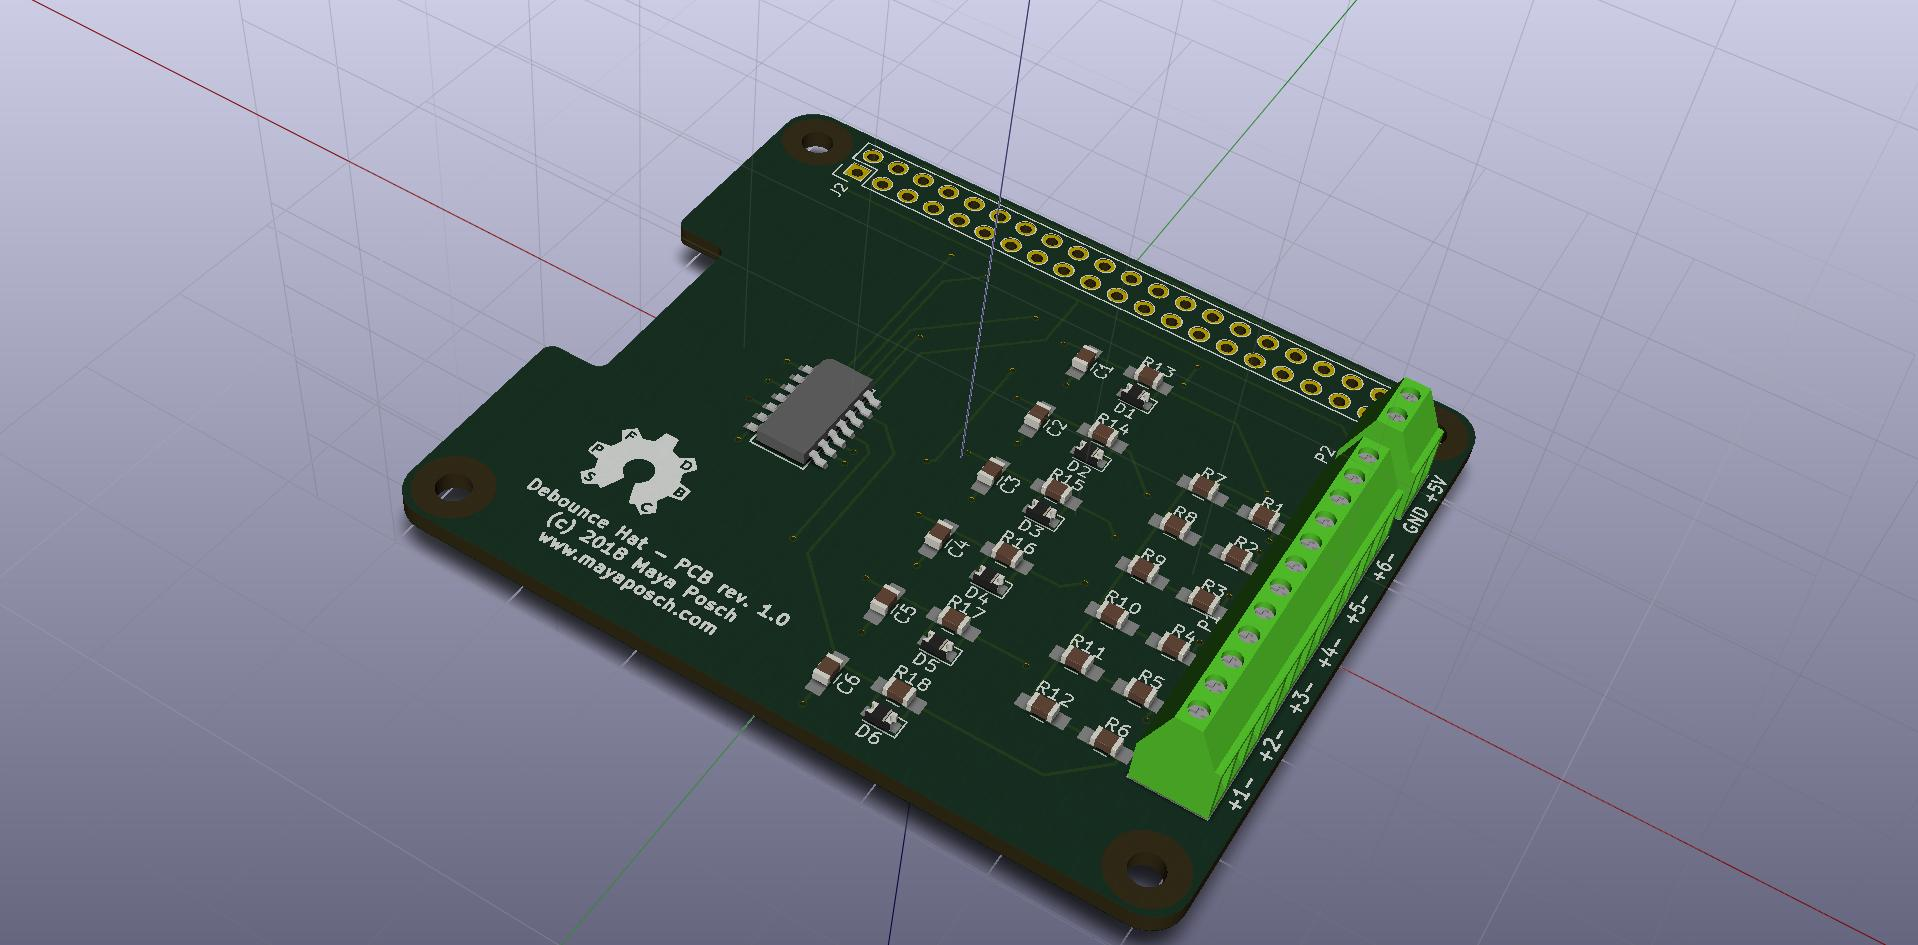
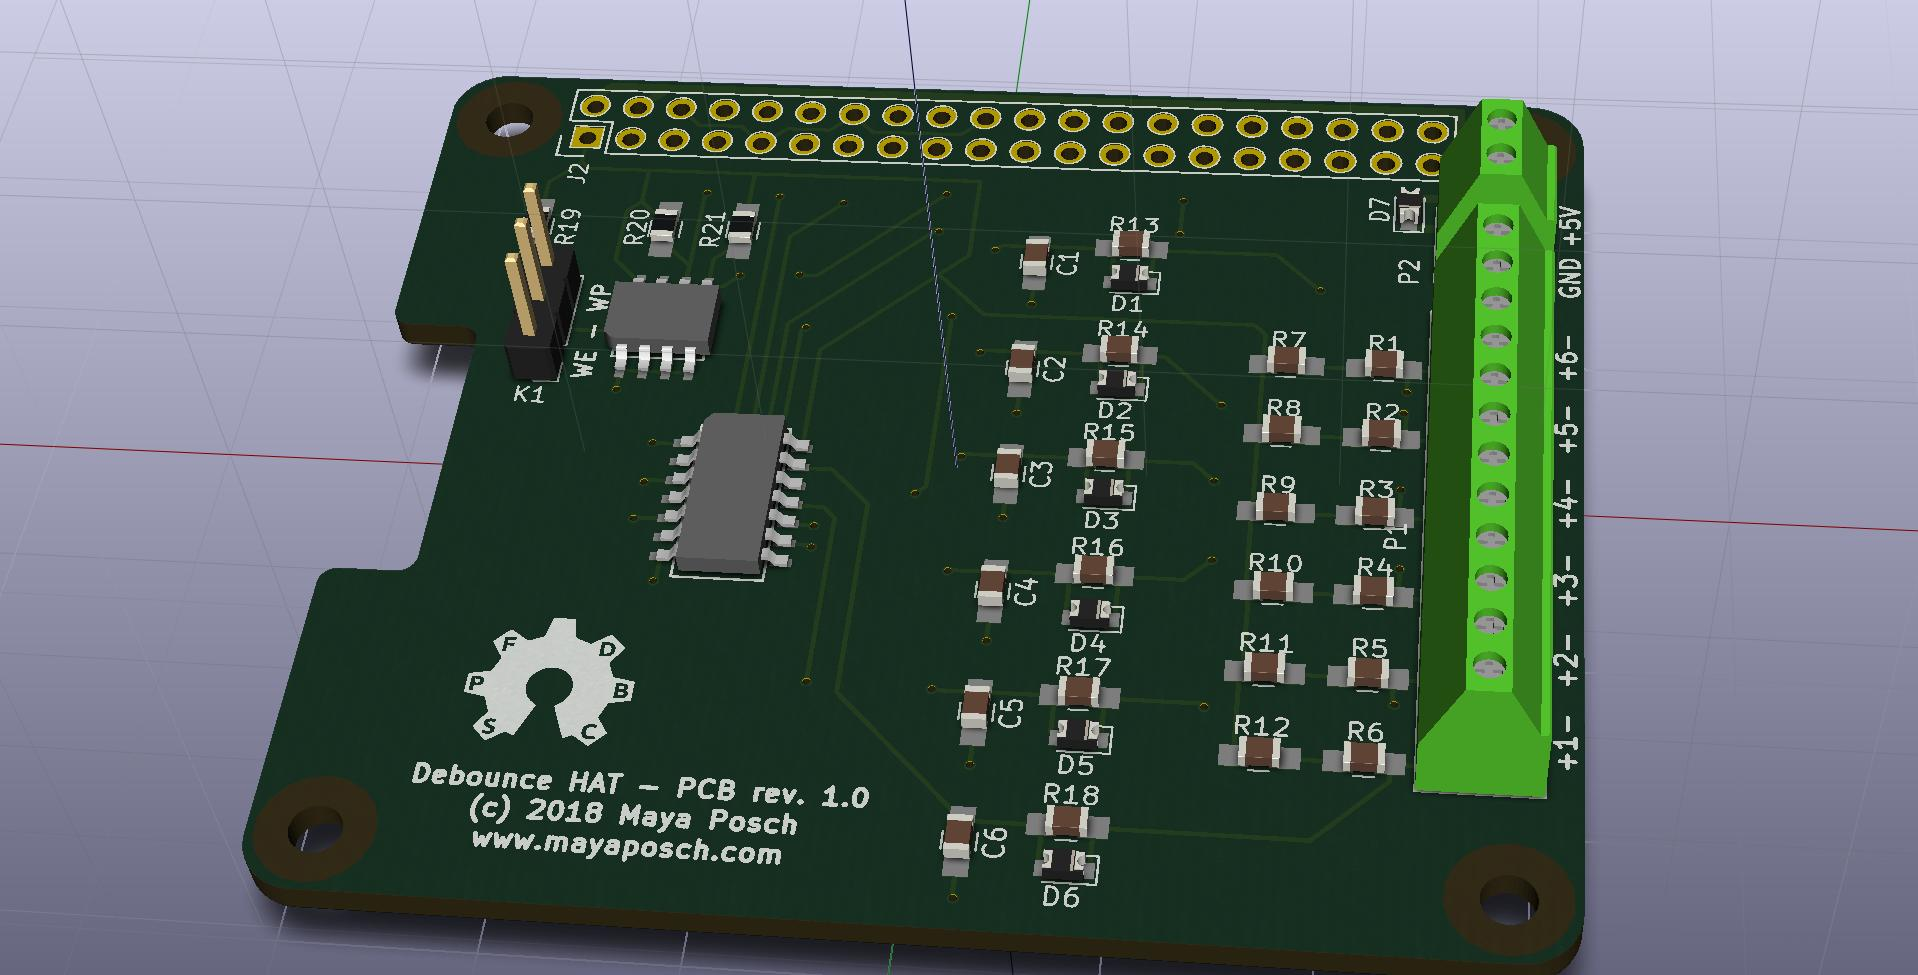
Add eeproms_settings.txt file. Update readme.

diff --git a/README.md b/README.md
@@ -1,10 +1,10 @@
 # Debounce HAT for Raspberry Pi #
 
-![Debounce HAT](debounce_shield_001.jpg)
+![Debounce HAT](debounce_shield.jpg)
 
 This project is a simple Hat for Raspberry Pi boards that allows one to connect both power for the Raspberry Pi SBC and up to six switches or relays. These switches are fully debounced using an RC network and 40106 (4000 CMOS) inverse Schmitt trigger IC. 
 
-See the KiCad schematic for the values of the resistors (22k, 39k & 12k) and capacitors (1 uF). These parts are all 0805 form factor. The 40106 is in SOIC-14 form factor, as is the CAT24C32 EEPROM IC.
+See the KiCad schematic for the values of the resistors (3.9k, 22k, 39k & 12k) and capacitors (1 uF). These parts are all 0805 form factor. The 40106 is in SOIC-14 form factor, as is the CAT24C32 EEPROM IC.
 
 The six channels of the board are mapped to the following GPIO pins:
 
@@ -23,6 +23,8 @@ When 5 VDC is connected to the two-pole terminal, it provides the connected Rasp
 
 This board design is currently a work-in-progress and untested. I cannot accept any responsibility for design flaws, but will gladly accept feedback and improvements.
 
-The EEPROM configuration is being worked on, and an EEPROM binary file will be provided. The jumper (three pin header) allows for the EEPROM to be set to write-protected/write-enabled mode.
+The EEPROM configuration is provided in the `eeprom_setting.txt` file, which can be processed with the `eepmake` tool, and flashed to the EEPROM with `eepflash`. Both tools can be found at [https://github.com/raspberrypi/hats/tree/master/eepromutils](https://github.com/raspberrypi/hats/tree/master/eepromutils "Raspberry Pi HATs Github"). The jumper (three pin header) allows for the EEPROM to be set to write-protected/write-enabled mode (WP, WE, respectively).
 
-A full BOM will be added as well at some point in the future. For now the notes in the schematic will suffice.
+**[Warning]** When not flashing the EEPROM, the EEPROM header should be set to `WP` to prevent any accidental rewriting of the EEPROM's contents.
+
+A full BOM will be added as well at some point in the future. For now the notes in the schematic should suffice.
